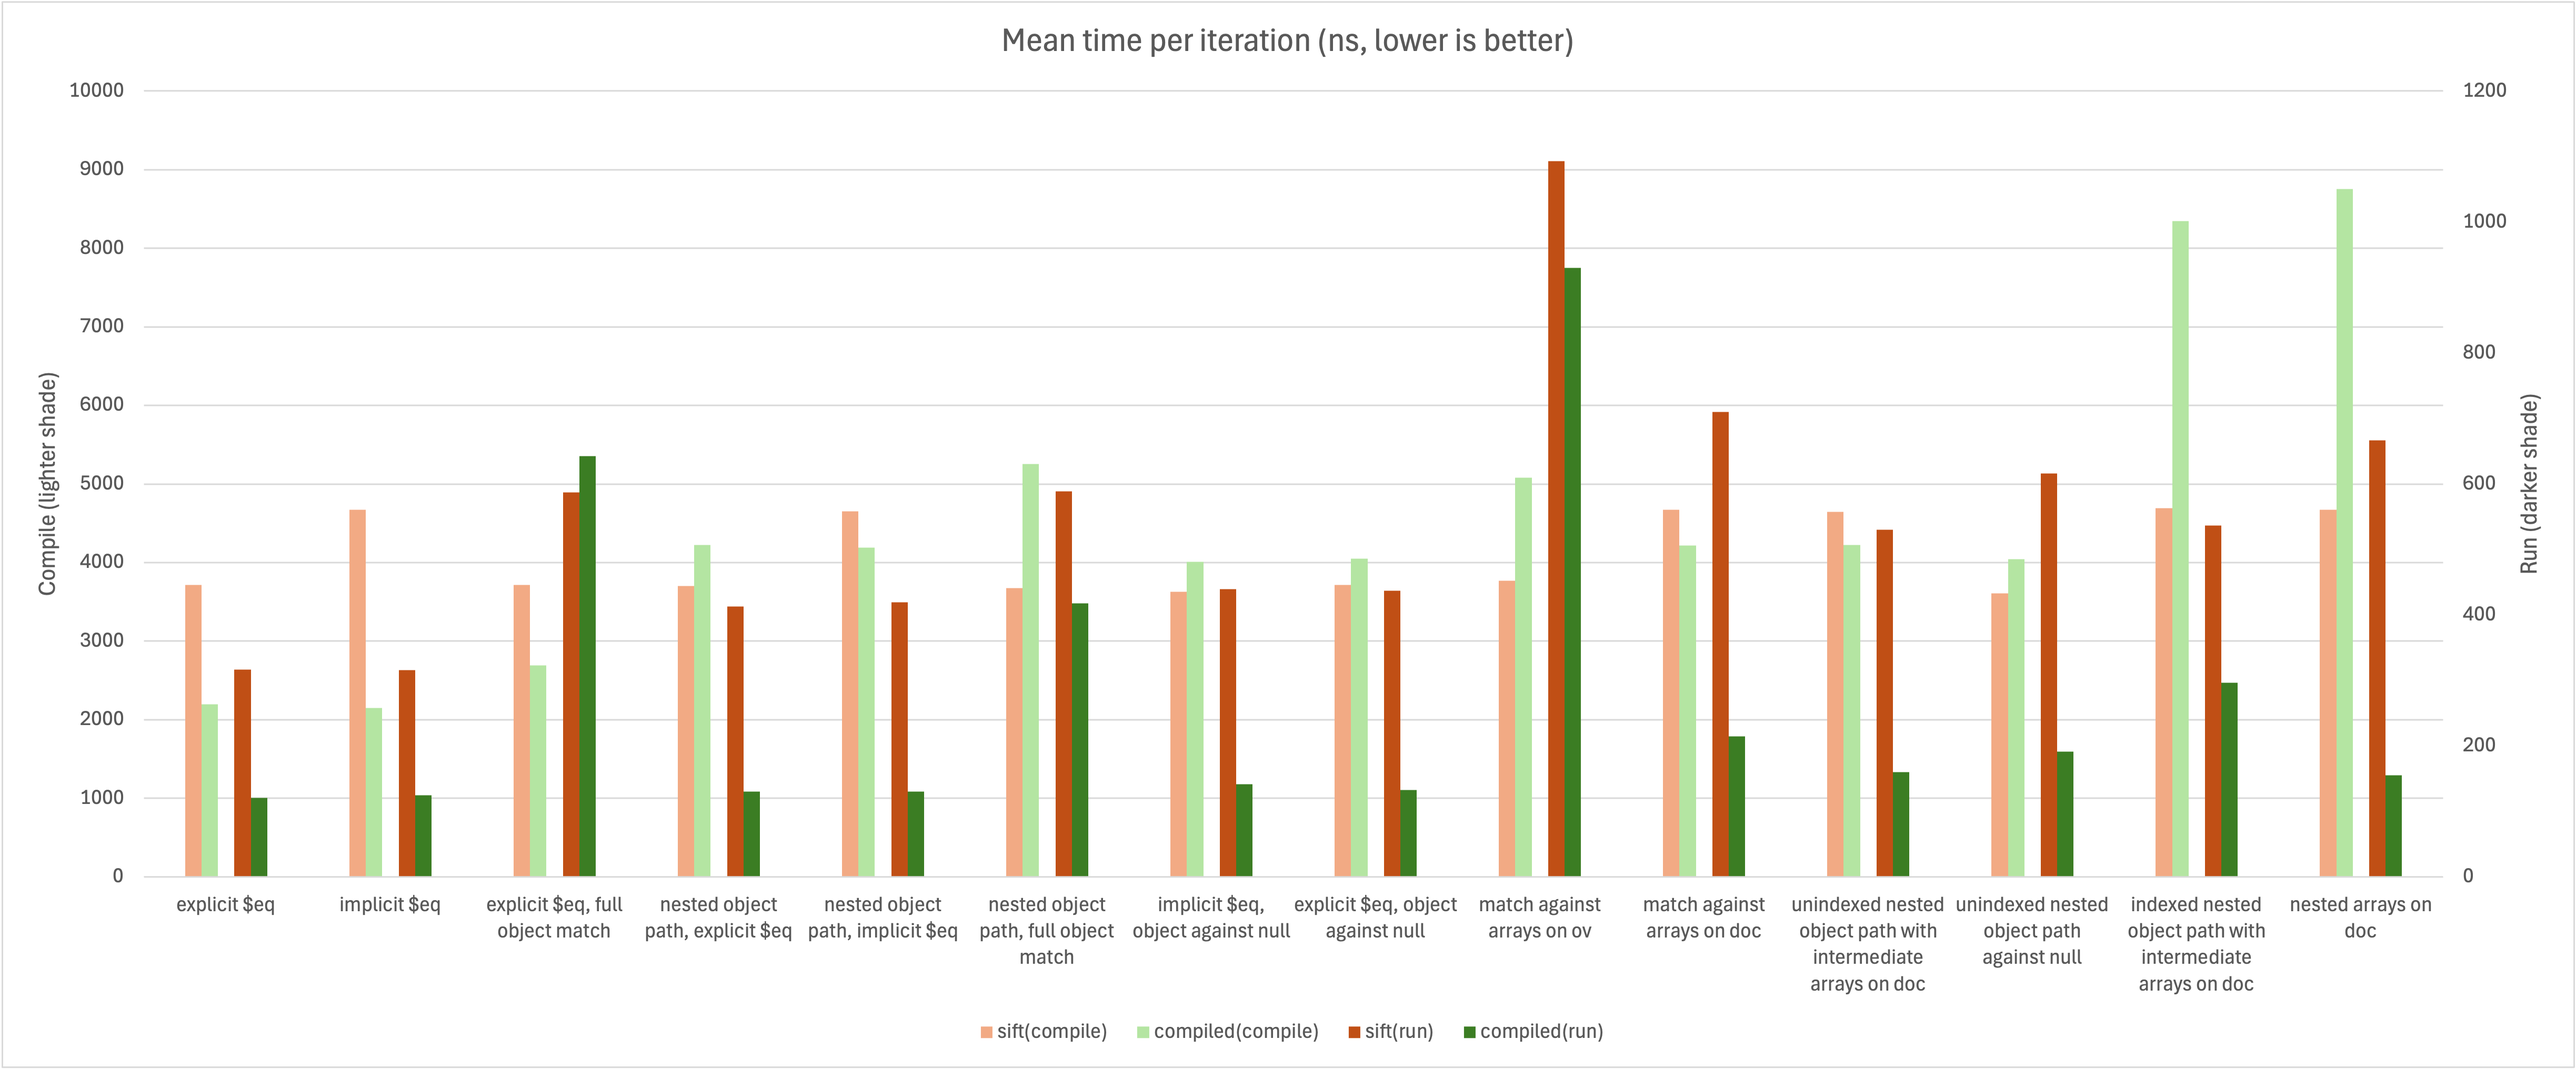
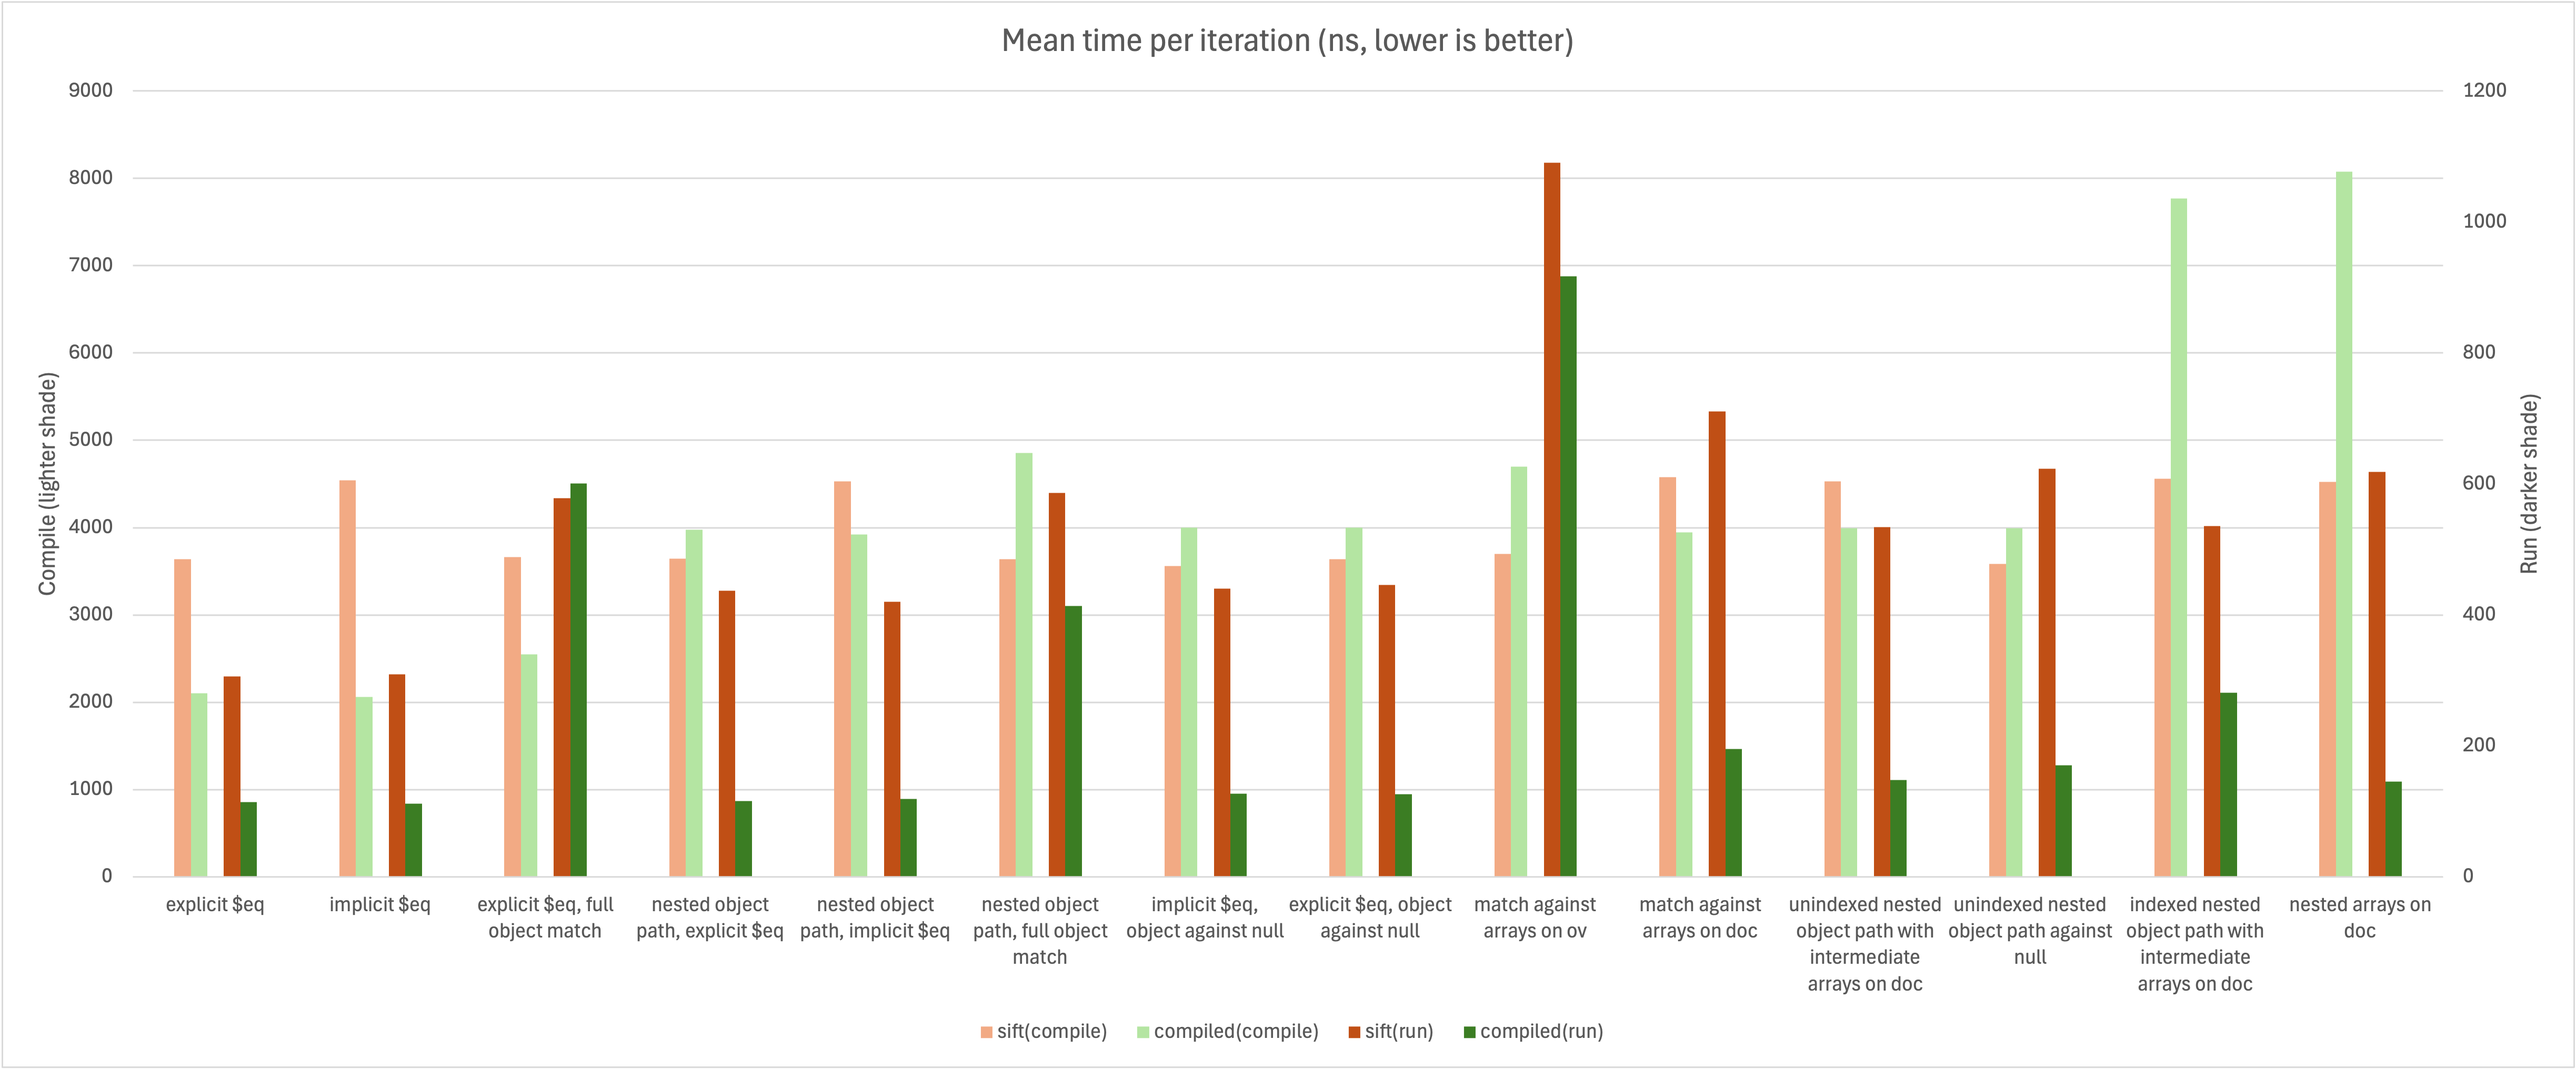
feat: some var and eq optimizations

diff --git a/src/compiler.ts b/src/compiler.ts
@@ -55,12 +55,12 @@ export function compile(query: Query, options: CompilerOptions = {}): Filter {
 
 		if (isAllOps) {
 			if ("$eq" in expOrOv) {
-				const ov = expOrOv["$eq"];
-				str += genEq(sc, results, ov, pathParts);
+				const ovs = JSON.stringify(expOrOv["$eq"]);
+				str += genEq(sc, results, ovs, pathParts);
 			}
 		} else {
-			const ov = expOrOv as OpValue;
-			str += genEq(sc, results, ov, pathParts);
+			const ovs = JSON.stringify(expOrOv);
+			str += genEq(sc, results, ovs, pathParts);
 		}
 	}
 
@@ -98,7 +98,7 @@ type Mode = "and" | "or" | "nor";
 function genEq(
 	sc: SymbolCounter,
 	results: string[],
-	ov: OpValue,
+	ovs: string,
 	pathParts: string[],
 ) {
 	let str = "";
@@ -106,7 +106,7 @@ function genEq(
 	const eqSym = sc.inc();
 	results.push(eqSym);
 
-	const mode: Mode = ov == null ? "nor" : "or";
+	const mode: Mode = ovs === "null" || ovs === "undefined" ? "nor" : "or";
 	const eqResults = [];
 
 	for (let i = 1; i < pathParts.length; i++) {
@@ -114,7 +114,8 @@ function genEq(
 		const lastPart = pathParts.slice(i + 1);
 		const docSym = "d";
 		const safeFirstPart = getSafePath(firstPart);
-		const safePath = getSafePath([docSym, ...lastPart]);
+		const docAndLastPart = [docSym, ...lastPart];
+		const safePath = getSafePath(docAndLastPart);
 		const arrSym = sc.inc();
 		eqResults.push(arrSym);
 
@@ -124,9 +125,8 @@ function genEq(
 		const subArrSym = sc.inc();
 		subArrResults.push(subArrSym);
 
-		str += `const ${subArrSym} = `;
-		str += genCompareOv(safePath, ov);
-		str += genEq(sc, subArrResults, ov, [docSym, ...lastPart]);
+		str += `const ${subArrSym} = ` + genCompareOv(safePath, ovs);
+		str += genEq(sc, subArrResults, ovs, docAndLastPart);
 
 		const subArrResultSym = sc.inc();
 		str += `let ${subArrResultSym} = ${subArrResults.join(" || ")}; `;
@@ -137,8 +137,7 @@ function genEq(
 	const pathSym = sc.inc();
 	eqResults.push(pathSym);
 
-	str += `const ${pathSym} = `;
-	str += genCompareOv(safePath, ov);
+	str += `const ${pathSym} = ` + genCompareOv(safePath, ovs);
 	str += `let ${eqSym} = ${eqResults.join(" || ")}; `;
 
 	if (mode === "nor") {
@@ -148,14 +147,14 @@ function genEq(
 	return str;
 }
 
-function genCompareOv(safePath: string, ov: OpValue) {
+function genCompareOv(safePath: string, ovs: string) {
 	let str = "";
-	if (ov == null) {
+	if (ovs === "null" || ovs === "undefined") {
 		str += `${safePath}; `;
-	} else if (typeof ov === "object") {
-		str += `JSON.stringify(${safePath}) === ${JSON.stringify(JSON.stringify(ov))}; `;
+	} else if (ovs[0] === "{" || ovs[0] === "[") {
+		str += `JSON.stringify(${safePath}) === ${JSON.stringify(ovs)}; `;
 	} else {
-		str += `${safePath} === ${JSON.stringify(ov)}; `;
+		str += `${safePath} === ${ovs}; `;
 	}
 	return str;
 }
